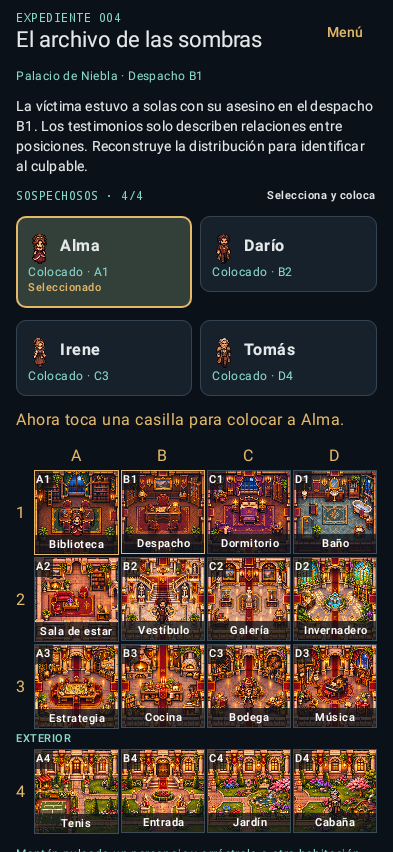
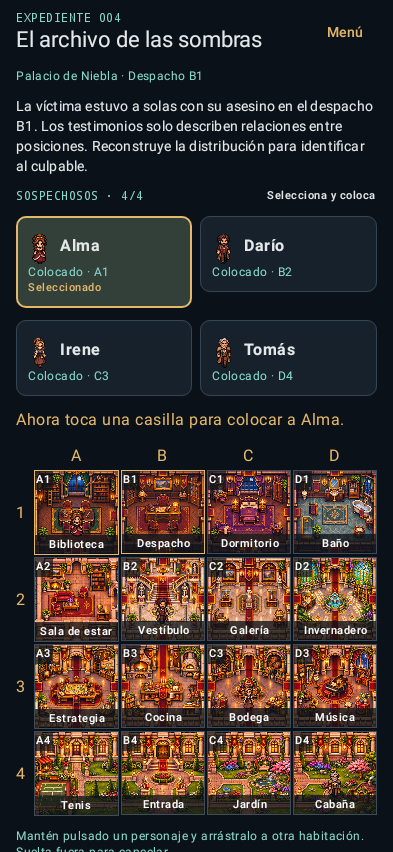
Keep approved mansion rows contiguous across the exterior
Remove the provisional divider only for case 004 and verify adjacent room rows in the native UI test. Preserve the original case 001 layout.

Changed region(s): [[0.0305, 0.8545, 0.9771, 1.0]]

diff --git a/app/src/test/kotlin/com/crimegrid/ui/ApprovedMapUiTest.kt b/app/src/test/kotlin/com/crimegrid/ui/ApprovedMapUiTest.kt
@@ -38,6 +38,9 @@ class ApprovedMapUiTest {
         val board=compose.onNodeWithTag("room-board").performScrollTo()
         compose.onNodeWithContentDescription("Casilla A1, Alma").assertExists()
         compose.onNodeWithContentDescription("Casilla D4, tomás",ignoreCase=true).assertExists()
+        val thirdRow = compose.onNodeWithContentDescription("Casilla A3, vacía").fetchSemanticsNode().boundsInRoot
+        val fourthRow = compose.onNodeWithContentDescription("Casilla A4, vacía").fetchSemanticsNode().boundsInRoot
+        org.junit.Assert.assertTrue("Approved map rows must stay adjacent", fourthRow.top - thirdRow.bottom <= 4f)
         compose.runOnIdle {
             val activity = androidx.test.runner.lifecycle.ActivityLifecycleMonitorRegistry.getInstance()
                 .getActivitiesInStage(androidx.test.runner.lifecycle.Stage.RESUMED).first()

diff --git a/app/src/main/kotlin/com/crimegrid/ui/RoomBoard.kt b/app/src/main/kotlin/com/crimegrid/ui/RoomBoard.kt
@@ -36,7 +36,7 @@ import kotlinx.coroutines.delay
             repeat(case.size) { Text("${('A'.code + it).toChar()}", Modifier.weight(1f), textAlign = TextAlign.Center, color = Color(0xFFE4B86B)) }
         }
         repeat(case.size) { row ->
-            if (case.scene != null && row == case.size - 1) Text("EXTERIOR", color = Color(0xFF88D8CB), style = MaterialTheme.typography.labelSmall)
+            if (case.scene != null && case.scene?.enforceConnections != true && row == case.size - 1) Text("EXTERIOR", color = Color(0xFF88D8CB), style = MaterialTheme.typography.labelSmall)
             Row(verticalAlignment = Alignment.CenterVertically) {
                 Text("${row + 1}", Modifier.width(18.dp), color = Color(0xFFE4B86B))
                 Box(Modifier.weight(1f)) {

diff --git a/VALIDACION.md b/VALIDACION.md
@@ -25,7 +25,7 @@ Las primeras comprobaciones detectaron un aviso de indentación de Lint y límit
 - APK: `app/build/outputs/apk/debug/app-debug.apk`.
 - Descarga de la sesión: `CrimeGrid-0.4-debug.apk`.
 - Paquete `com.crimegrid`, versionCode 4, versionName 0.4.0, Android 8.0 o posterior.
[2 lines of base64/hex data omitted]
 - Repositorio de destino: https://github.com/alejatorrrr/CrimeGrid .
 - El workflow de GitHub genera `CrimeGrid-debug` y los informes de pruebas al publicarse el proyecto.
 
